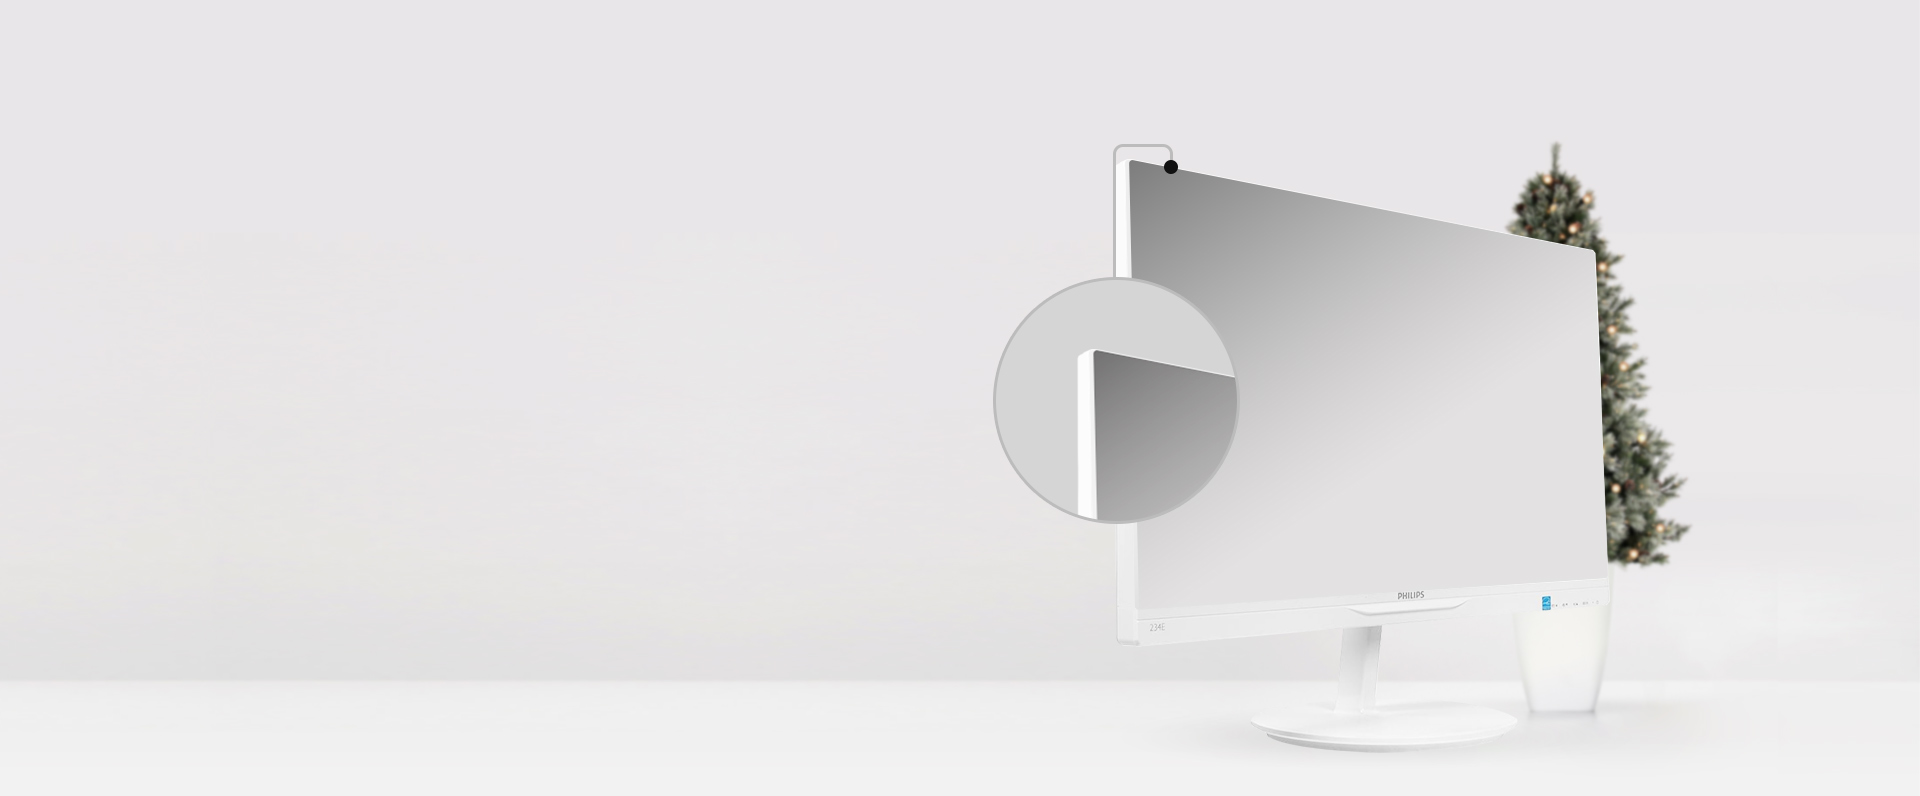
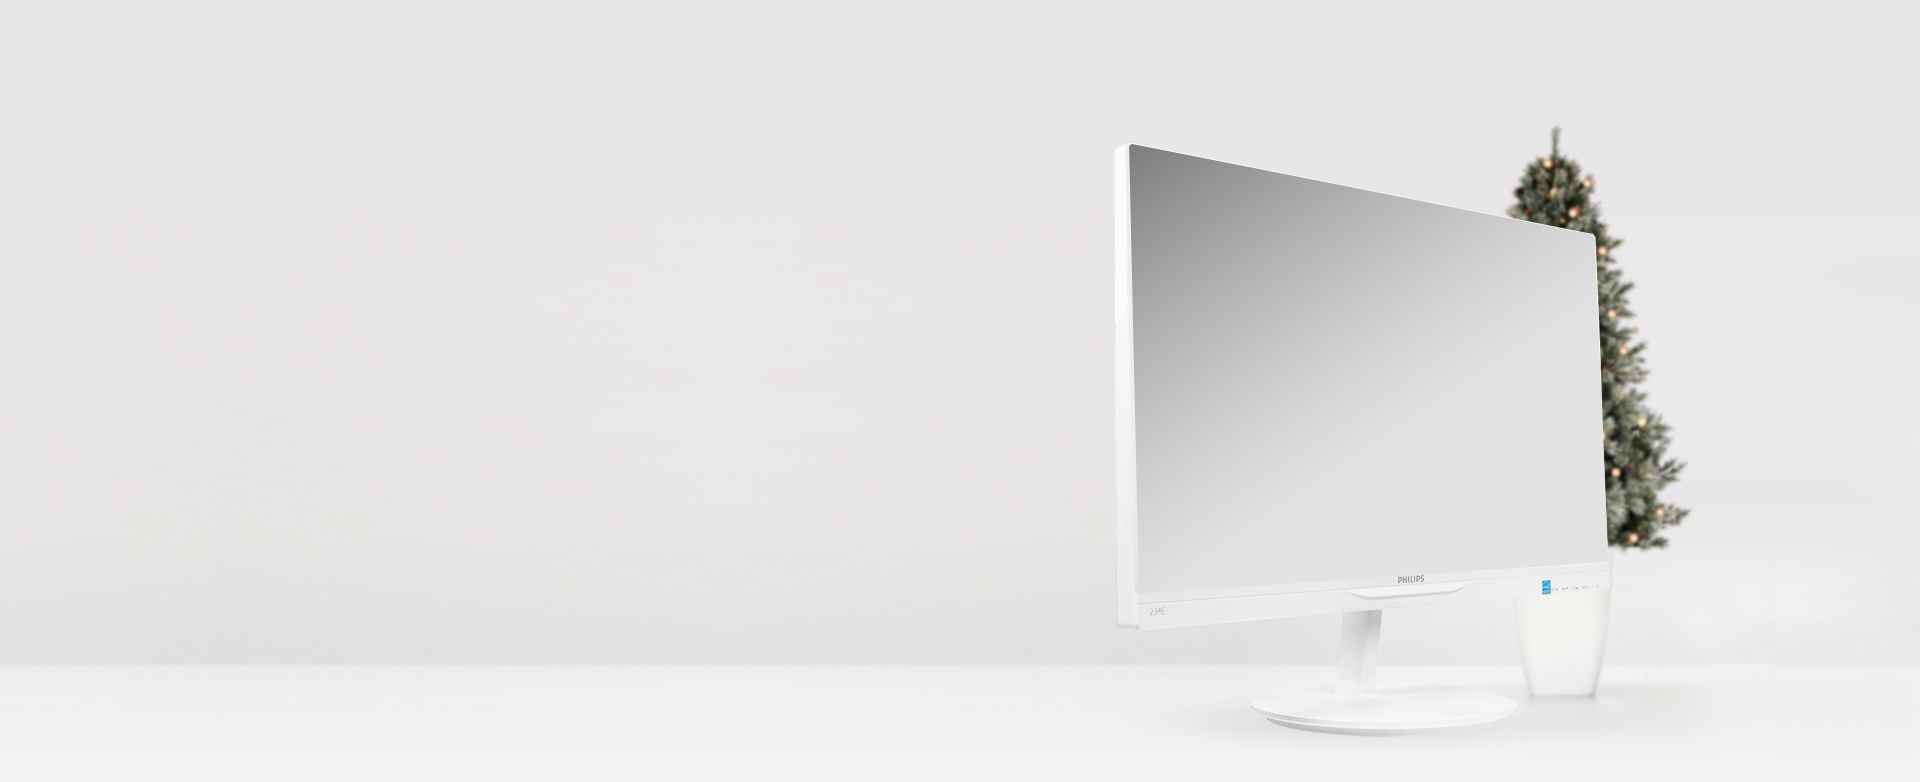
zoom animation + opacity transition to all animations

diff --git a/index.html b/index.html
@@ -86,95 +86,91 @@
                                 <img src="img/Pics/Monitors/phone.png" alt="">
                             </div>
                         </div>
-
-                        <div class="col-sm-1 col-md-1 col-lg-1">
-                        </div>
-                        <div class="slide-hand">
-                            <img src="img/Pics/Monitors/phone.png" alt="">
-
-                        </div>
                     </div>
                 </div>
-                <div class="slide" data-anchor="slide2">
-                    <div class="bgup">
-                        <div class="subHeader">
-                            <div class="container">
-                                <img class="arrow" src="img/Pics/Icons/arrow_right.png" alt="">
-                                <p class="arrow"> ОПИСАНИЕ </p>
-                            </div>
+            </div>
+            <div class="slide" data-anchor="slide2">
+                <div class="bgup">
+                    <div class="subHeader">
+                        <div class="container">
+                            <img class="arrow" src="img/Pics/Icons/arrow_right.png" alt="">
+                            <p class="arrow"> ОПИСАНИЕ </p>
                         </div>
-                        <div class="specification specification-2">
-                            <div class="specification__inner">
-                                <div class="container">
-                                    <div class="row">
-                                        <div class="col-lg-6 col-md-6 col-sm-12 col-xs-12">
-                                            <div>
-                                                <div class="black-cell ">
-                                                    <h2> СУПЕР ЦЕНА: <strong> 9900 </strong> </h2>
-                                                </div>
-                                                <div class="transparent-cell december">
-                                                    <p>ТОЛЬКО В ДЕКАБРЕ 2017</p>
-                                                </div>
+                    </div>
+                    <div class="specification specification-2">
+                        <div class="specification__inner">
+                            <div class="container">
+                                <div class="row">
+                                    <div class="col-lg-6 col-md-6 col-sm-12 col-xs-12">
+                                        <div>
+                                            <div class="black-cell ">
+                                                <h2> СУПЕР ЦЕНА: <strong> 9900 </strong> </h2>
                                             </div>
-                                            <div class="features">
-                                                <div class="title">
-                                                    <h2> <strong> Ультратонкая</strong> рамка </h2>
-                                                </div>
-                                                <div class="description">
-                                                    <p> Новые дисплеи Philips отличаются не только панелями, выполненными по последним технологиям, но и минималистичным дизайном, выраженным в ультратонкой рамке шириной всего 2,5 мм. Монитор обладает широким
-                                                        углом обзора,равным 178 градусов по вертикали и по горизонтали.</p>
-                                                </div>
+                                            <div class="transparent-cell december">
+                                                <p>ТОЛЬКО В ДЕКАБРЕ 2017</p>
                                             </div>
-                                            <button>КУПИТЬ СО СКИДКОЙ</button>
                                         </div>
+                                        <div class="features">
+                                            <div class="title">
+                                                <h2> <strong> Ультратонкая</strong> рамка </h2>
+                                            </div>
+                                            <div class="description">
+                                                <p> Новые дисплеи Philips отличаются не только панелями, выполненными по последним технологиям, но и минималистичным дизайном, выраженным в ультратонкой рамке шириной всего 2,5 мм. Монитор обладает широким
+                                                    углом обзора,равным 178 градусов по вертикали и по горизонтали.</p>
+                                            </div>
+                                        </div>
+                                        <button>КУПИТЬ СО СКИДКОЙ</button>
                                     </div>
                                 </div>
                             </div>
-                        </div>
-                    </div>
-                </div>
-
-                <div class="slide" data-anchor="slide3" data-slide="end">
-                    <div class="bgup">
-                        <div class="subHeader">
-                            <div class="container">
-                                <img class="arrow" src="img/Pics/Icons/arrow_right.png" alt="">
-                                <p class="arrow"> ОПИСАНИЕ </p>
-                            </div>
-                        </div>
-                        <div class="specification specification-3">
-                            <div class="specification__inner">
-                                <div class="container">
-                                    <div class="row">
-                                        <div class="col-lg-6 col-md-6 col-sm-12 col-xs-12">
-                                            <div>
-                                                <div class="black-cell ">
-                                                    <h2> СУПЕР ЦЕНА: <strong> 9900 </strong> </h2>
-                                                </div>
-                                                <div class="transparent-cell december">
-                                                    <p>ТОЛЬКО В ДЕКАБРЕ 2017</p>
-                                                </div>
-                                            </div>
-                                            <div class="features">
-                                                <div class="title">
-                                                    <h2> Встроенные <strong> стереодинамики</strong> </h2>
-                                                </div>
-                                                <div class="description">
-                                                    <p>Два стереодинамика мощностью 10 Вт позволят в полной мере насладиться звуком в фильме и мультимедийных приложениях.</p>
-                                                </div>
-                                            </div>
-                                            <button>КУПИТЬ СО СКИДКОЙ</button>
-                                        </div>
-                                    </div>
-                                </div>
-                                <div class="slide-candy">
-                                    <img src="img/Pics/candy.png" alt="">
-                                </div>
+                            <div class="slide-zoom">
+                                <img src="img/Pics/zoom.png" alt="">
                             </div>
                         </div>
                     </div>
                 </div>
             </div>
+            <div class="slide" data-anchor="slide3" data-slide="end">
+                <div class="bgup">
+                    <div class="subHeader">
+                        <div class="container">
+                            <img class="arrow" src="img/Pics/Icons/arrow_right.png" alt="">
+                            <p class="arrow"> ОПИСАНИЕ </p>
+                        </div>
+                    </div>
+                    <div class="specification specification-3">
+                        <div class="specification__inner">
+                            <div class="container">
+                                <div class="row">
+                                    <div class="col-lg-6 col-md-6 col-sm-12 col-xs-12">
+                                        <div>
+                                            <div class="black-cell ">
+                                                <h2> СУПЕР ЦЕНА: <strong> 9900 </strong> </h2>
+                                            </div>
+                                            <div class="transparent-cell december">
+                                                <p>ТОЛЬКО В ДЕКАБРЕ 2017</p>
+                                            </div>
+                                        </div>
+                                        <div class="features">
+                                            <div class="title">
+                                                <h2> Встроенные <strong> стереодинамики</strong> </h2>
+                                            </div>
+                                            <div class="description">
+                                                <p>Два стереодинамика мощностью 10 Вт позволят в полной мере насладиться звуком в фильме и мультимедийных приложениях.</p>
+                                            </div>
+                                        </div>
+                                        <button>КУПИТЬ СО СКИДКОЙ</button>
+                                    </div>
+                                </div>
+                            </div>
+                            <div class="slide-candy">
+                                <img src="img/Pics/candy.png" alt="">
+                            </div>
+                        </div>
+                    </div>
+                </div>
+            </div>
+        </div>
 
             <!-- SLIDES End -->
             <!-- SECTION 2 -->

diff --git a/css/main.css b/css/main.css
@@ -417,12 +417,13 @@ input {
   opacity: 0;
   transform: translateX(100%);
   opacity: 0;
-  transition: transform .4s ease-out
+  transition: transform .4s ease
 }
 
 .slide-hand.hand-animated {
   transform: translateX(0);
-  opacity: 1
+  opacity: 1;
+  animation: animatonOpacity .6s;
 }
 
 .section-venki {
@@ -518,12 +519,13 @@ input {
   margin-left: 60px;
   transform: translateY(100%);
   opacity: 0;
-  transition: transform .4s ease-out
+  transition: transform .25s ease
 }
 
 .slide-candy.candy-animated {
   opacity: 1;
   transform: translateY(0);
+  animation: animatonOpacity .8s;
 }
 
 .section-venki .ofer {
@@ -533,4 +535,38 @@ input {
 
 .site-logo {
   float: left;
+}
+
+.slide-zoom {
+  position: absolute;
+  left: 50%;
+  top: 50%;
+  margin-top: -266px;
+  margin-left: 20px;
+  transform: translateY(10px);
+  opacity: 0;
+  transition: transform .4s ease-out
+}
+
+.slide-zoom.zoom-animated {
+  opacity: 1;
+  transform: translateY(0);
+  animation: animatonOpacity .2s;
+}
+
+@-webkit-keyframes animatonOpacity {
+  0%   { opacity: 0; }
+  100% { opacity: 1; }
+}
+@-moz-keyframes animatonOpacity {
+  0%   { opacity: 0; }
+  100% { opacity: 1; }
+}
+@-o-keyframes animatonOpacity {
+  0%   { opacity: 0; }
+  100% { opacity: 1; }
+}
+@keyframes animatonOpacity {
+  0%   { opacity: 0; }
+  100% { opacity: 1; }
 }

diff --git a/js/script.js b/js/script.js
@@ -12,6 +12,11 @@ $(document).ready(function(){
 			} else {
 				$('.slide-candy').removeClass('candy-animated');
 			}
+			if(slideAnchor == 'slide2') {
+				$('.slide-zoom').addClass('zoom-animated');
+			} else {
+				$('.slide-zoom').removeClass('zoom-animated');
+			}
 		},
 
 		afterLoad: function(anchorLink, index){
